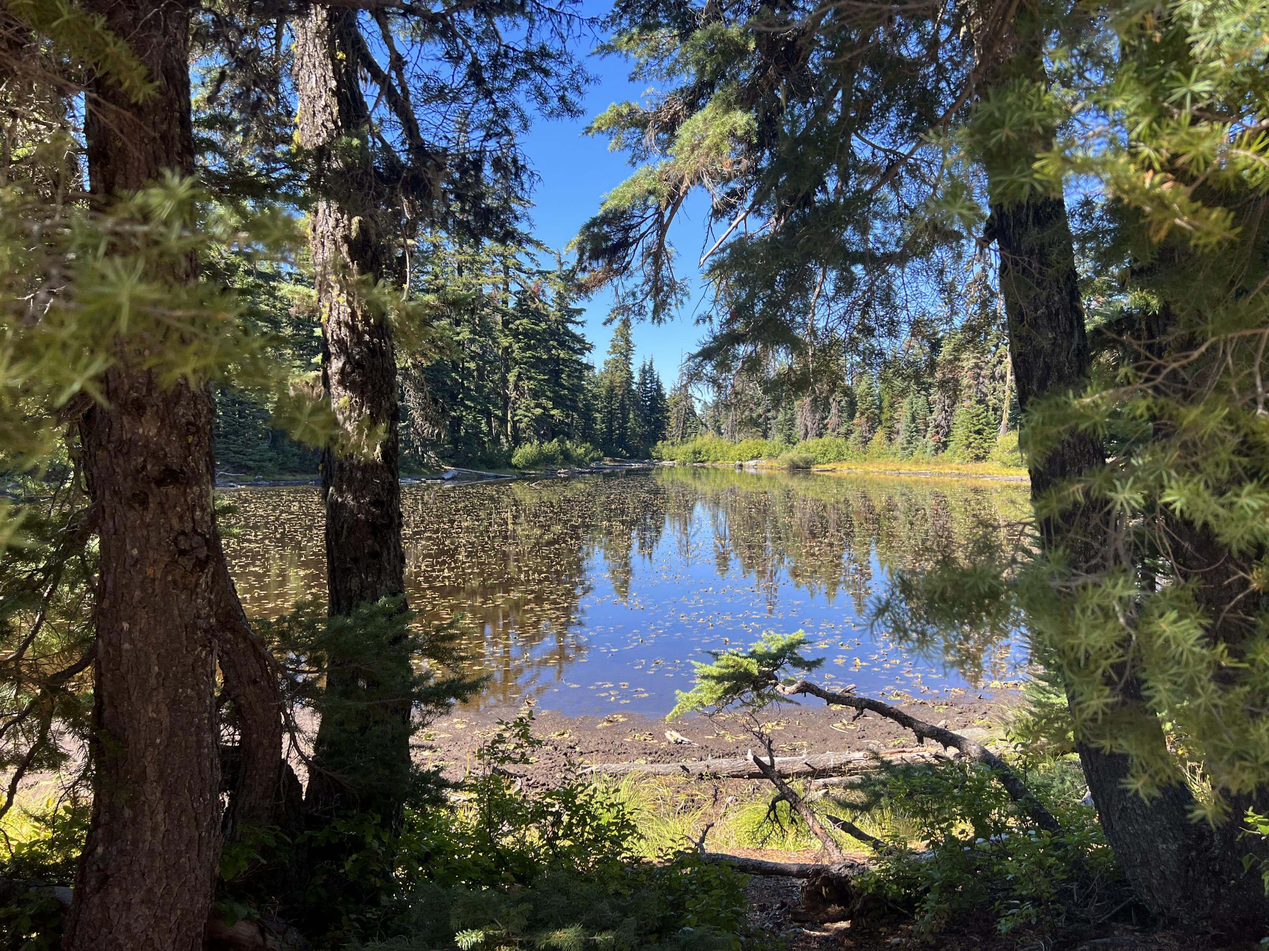
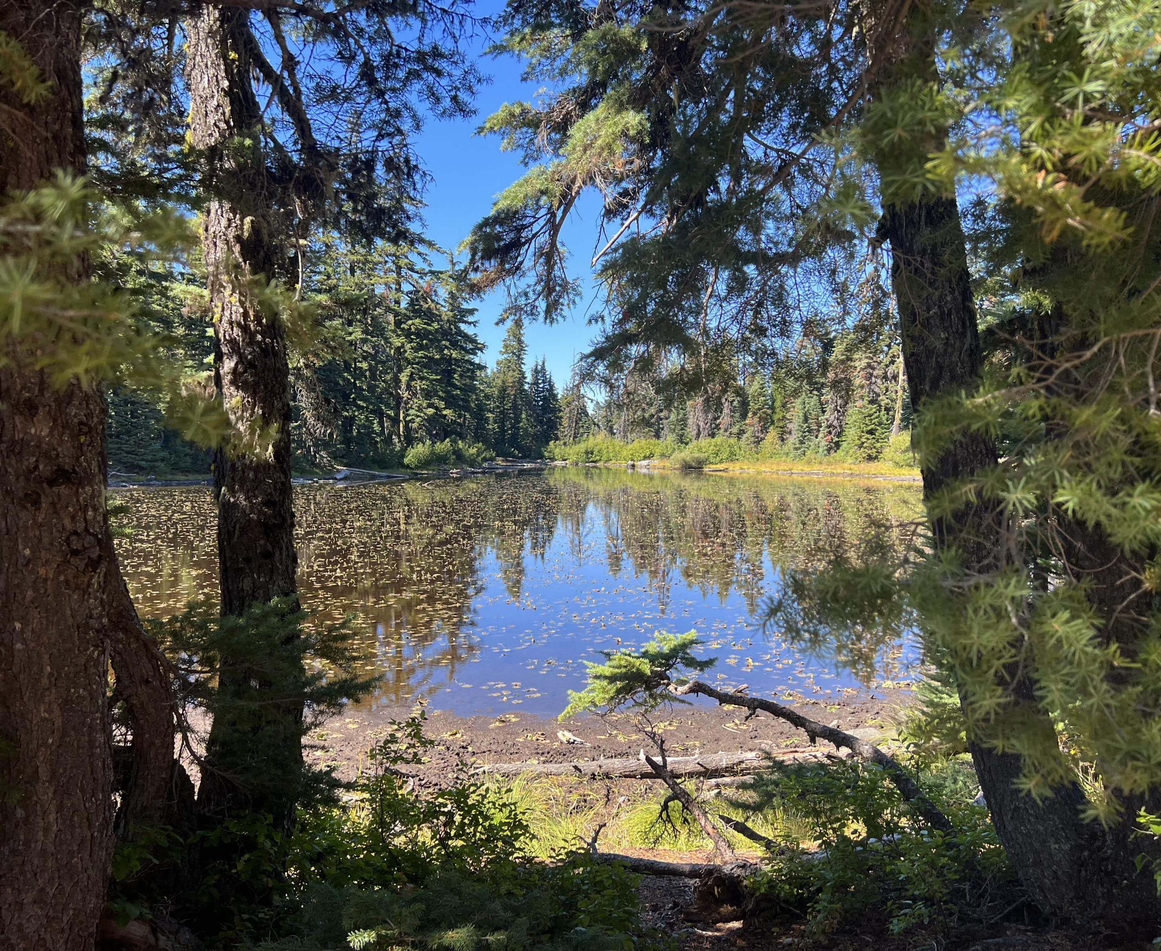
Update ui of mobile homepage

diff --git a/kxcj-lp-front-end/src/styles/home.css b/kxcj-lp-front-end/src/styles/home.css
@@ -48,7 +48,15 @@
 .logo {
   display: flex;
   justify-content: center;
+  @media (max-width: 600px) {
+    
+    margin-top: -40px;
+    width: 110%;
+    height: 190px;
+  }
+  
 }
+
 
 /* logo */
 .logo img {
@@ -57,7 +65,7 @@
   
   @media (max-width: 600px) {
     min-width: 300px;
-  max-width: 300px;
+  max-width: 340px;
   }
 }
 /* buttons */
@@ -81,7 +89,9 @@ margin-top: -30px;
 max-width: 100%;
 height: auto;
 @media (max-width: 600px) { 
-  margin-top: -60px;
+  margin-top: -70px;
+  margin-left: 20px;
+  width: 90%;
 }
 }
 
@@ -102,38 +112,9 @@ button {
   font-family: 'Amatic SC', cursive;
   @media screen and (max-height: 730px) {
   
-  /* height: 1px; */
   }
 
   
-}
-
-#indie-flower {
-  font-family: 'Indie Flower', cursive;
-}
-
-#francois-one {
-  font-family: 'Francois One', sans-serif;
-}
-
-#neutcha {
-  font-family: 'Neucha', cursive;
-}
-
-#caveat-brush {
-  font-family: 'Caveat Brush', cursive;
-}
-
-#rubik-dirt {
-  font-family: 'Rubik Dirt', cursive;
-}
-
-#rye {
-  font-family: 'Rye', cursive;
-}
-
-#limelight {
-  font-family: 'Limelight', cursive;
 }
 
 .landscape-message {
